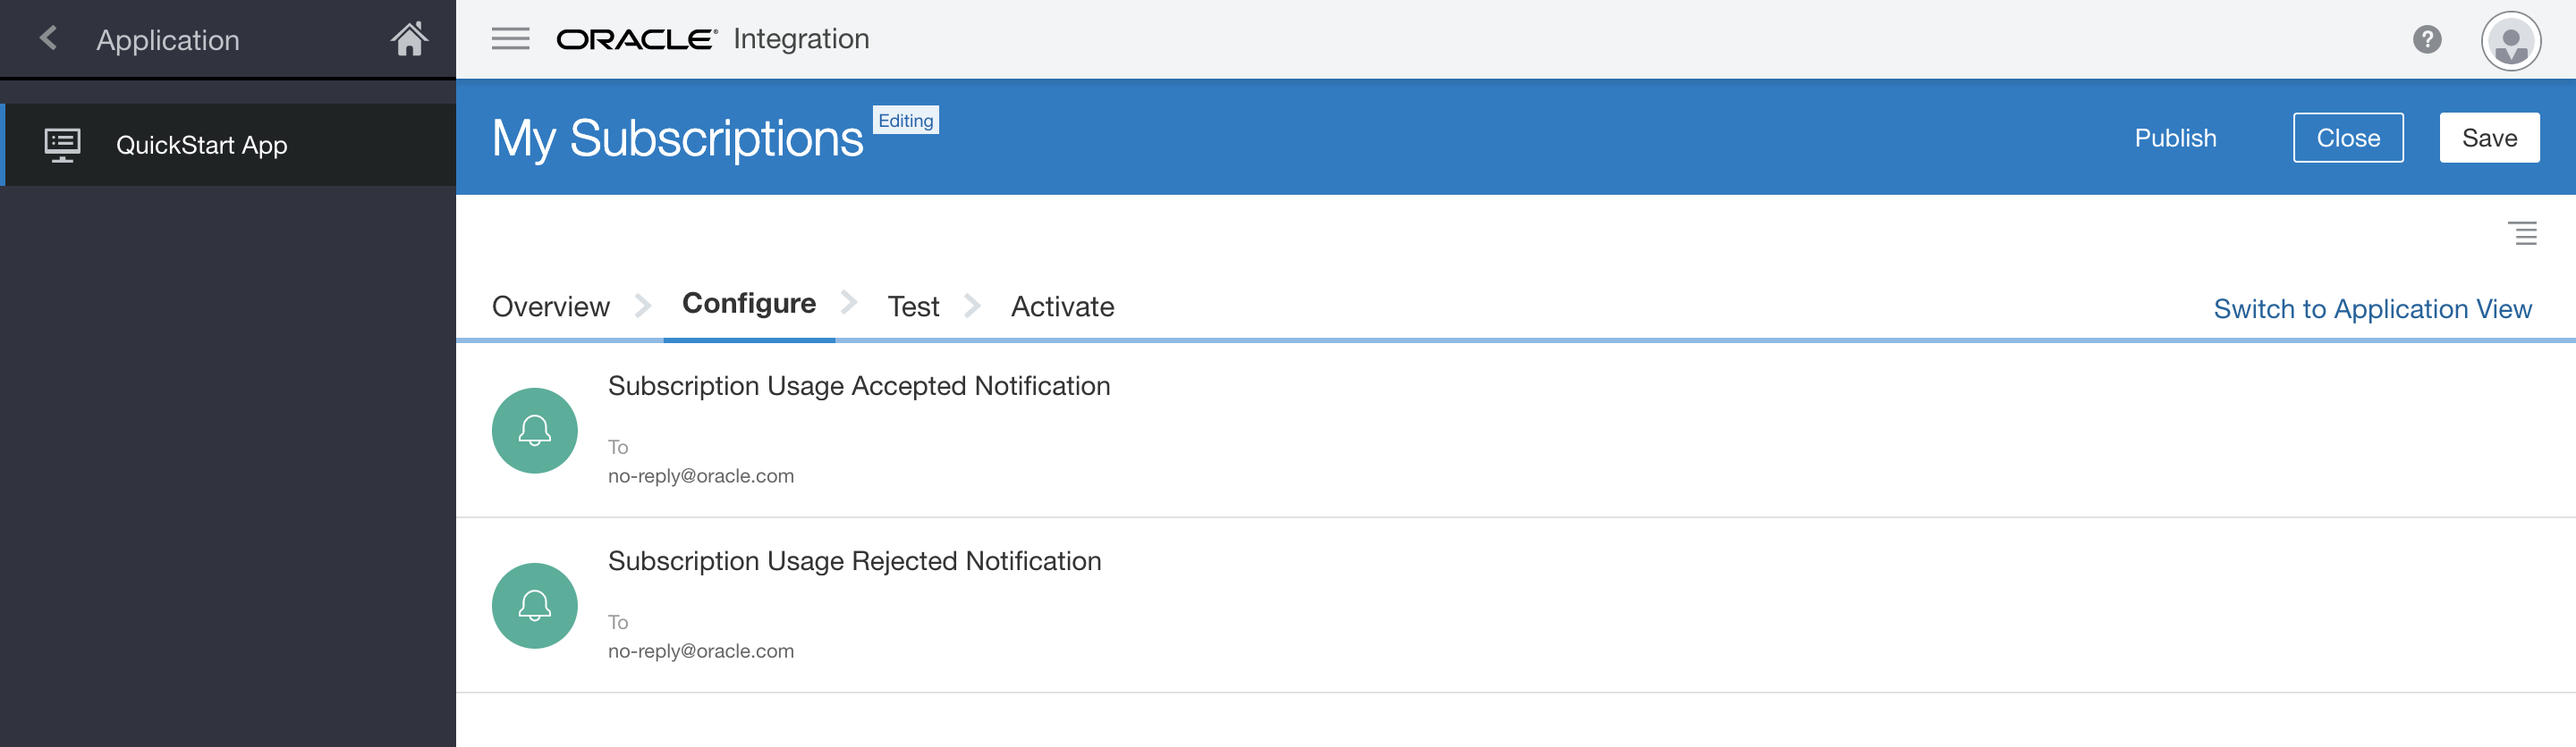
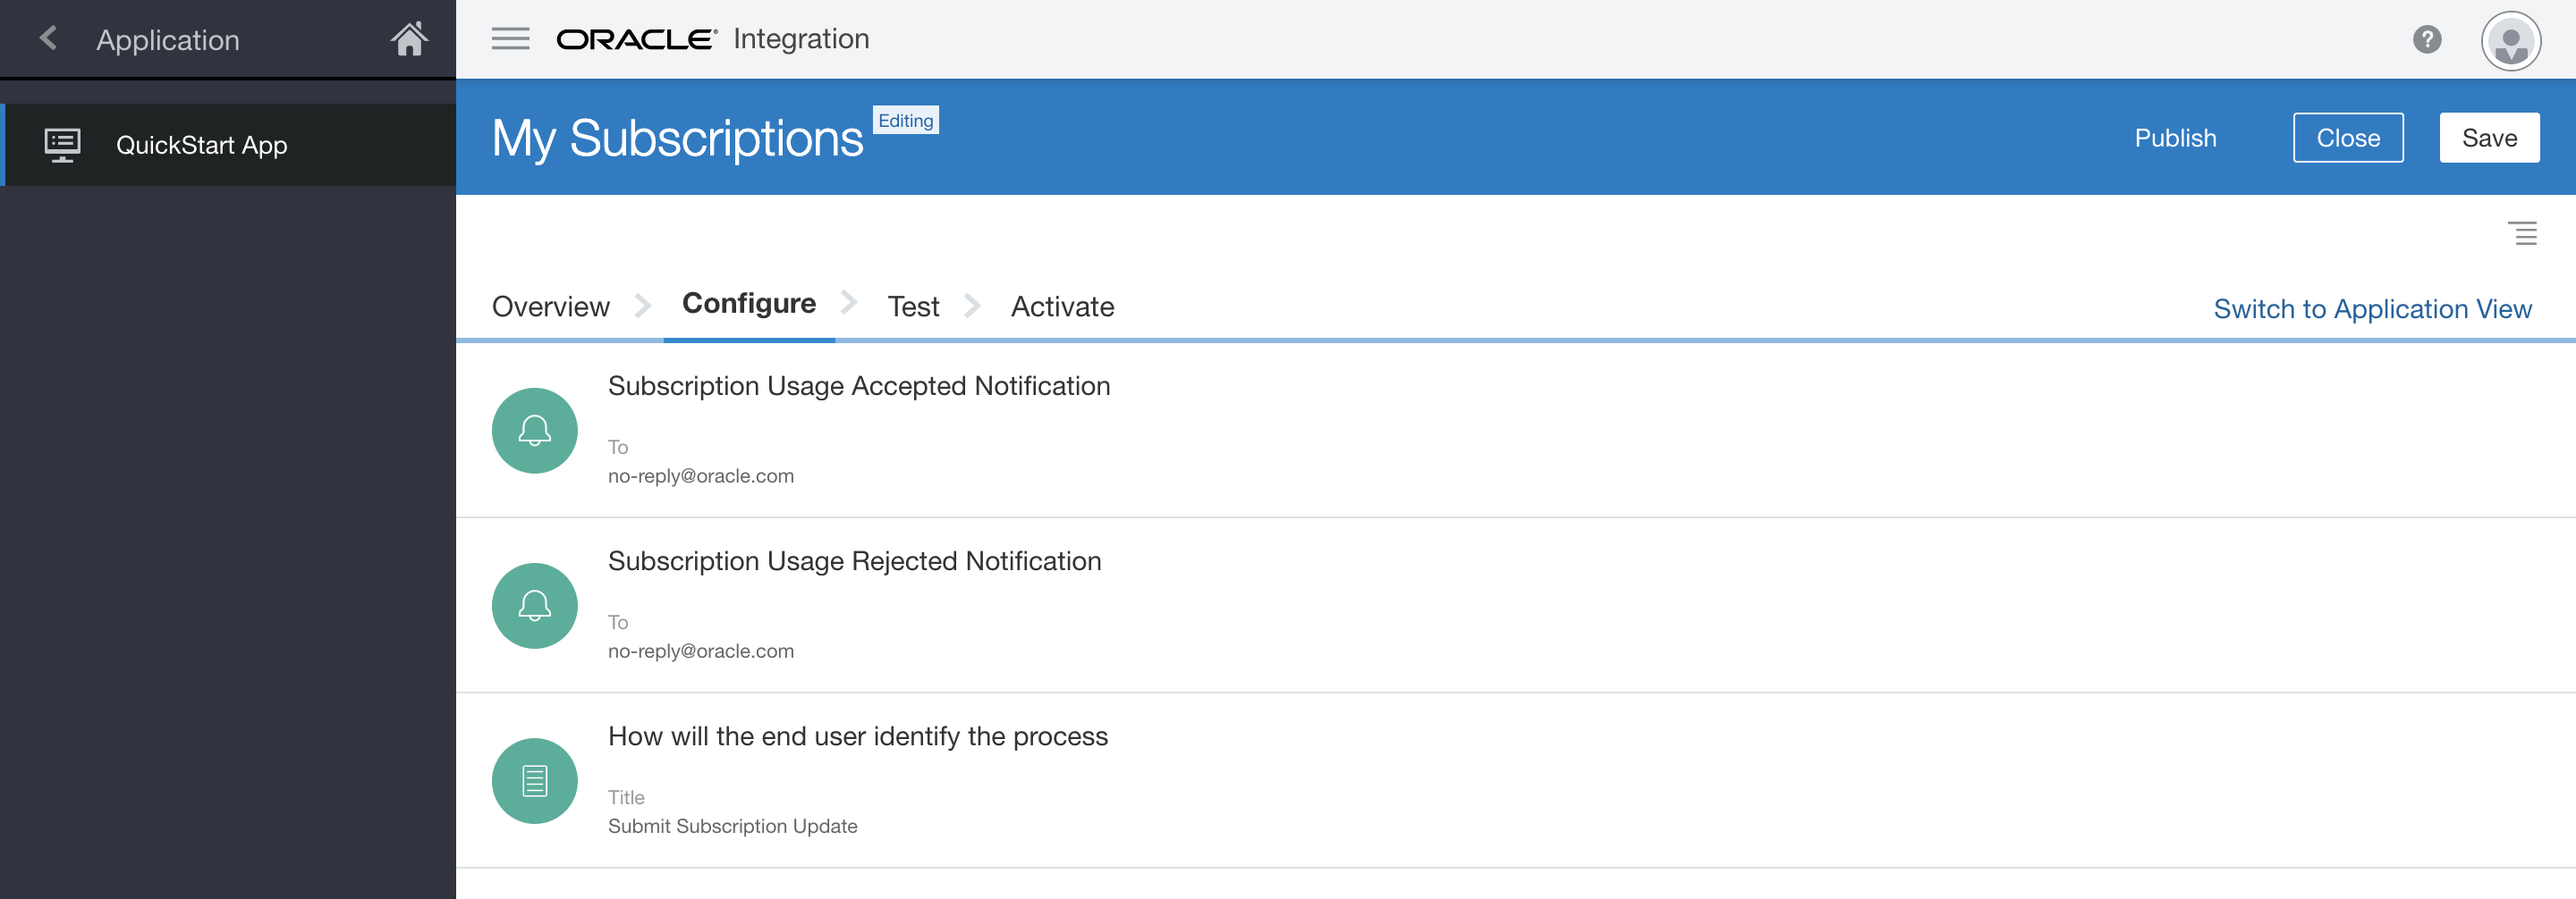
Completed Review the Process App section, Moved the How will the end user identify the process configuration from the Edit the Form section to the QuickStart App configuration section.

Changed region(s): [[0.0, 0.0, 1.0, 0.2799], [0.1875, 0.311, 1.0, 0.933]]

diff --git a/html/process.html b/html/process.html
@@ -50,8 +50,9 @@
                         <section>
                             <h2>Before You Begin</h2>                           
                             <ul>	                            
-                            	<li>Enter the user number provided by your lab facilitator:&nbsp;<input data-bind="value: user_number" type="text" placeholder="User Number"/>&nbsp;<button>OK</button><br>
-                            		We'll use this <strong>user number</strong> to make certain names used throughout the lab unique to you. If you leave this blank, these names will contain a placeholder that you can replace with your <strong>user number</strong>.
+								<li>Enter the user number provided by your lab facilitator:&nbsp;<input data-bind="value: user_number" type="text" placeholder="User Number"/>&nbsp;<button>OK</button><br>
+									<p>Your <strong>user number</strong> is <code class="allow-copy"><span><em data-bind="text:user_number() || 'Undefined'"></em></span></code></p>
+                            		<p>We'll use this <strong>user number</strong> to make certain names used throughout the lab unique to you. If you leave this blank, these names will contain a placeholder that you can replace with your <strong>user number</strong>.</p>.
                             	</li>
                             	<li>Some steps in this tutorial have a <img src="img/copy-to-clipboard.png" alt="Copy to Cliboard" height="19px" width="19px"> icon next to them. Click this icon to copy the snippet of text to your clipboard and then paste where needed.</li>														
                         </section>
@@ -86,7 +87,9 @@
 							<br>							
                             <ol>
 								<li>Open a browser with the <strong>url</strong> provided by your lab facilitator to access your Oracle Integration instance.</li>
-								<li>Enter the <strong>user name prefix</strong> provided by your lab facilitator:&nbsp;<input data-bind="value: user_name_prefix" type="text" placeholder="User Name Prefix"/>&nbsp;<button>OK</button></li>
+								<li>Enter the <strong>user name prefix</strong> provided by your lab facilitator:&nbsp;<input data-bind="value: user_name_prefix" type="text" placeholder="User Name Prefix"/>&nbsp;<button>OK</button>
+									<p>Your <strong>user name prefix</strong> is <code class="allow-copy"><span><em data-bind="text:user_name_prefix() || 'Undefined'"></em></span></code></p>
+								</li>
 								<li><p>Enter your user name.</p>
                                 	<p>Your user name is the <strong>user name prefix</strong> followed by the <strong>user number</strong> provided by your lab facilitator.</p>
 									<p>If you entered your <strong>user number</strong> and <strong>user name prefix</strong> above, your user name is <code class="allow-copy"><span><em data-bind="text:user_name_prefix() || '<User Name Prefix>'"></em><em data-bind="text:user_number() || '<User Number>'"></em></span></code></p>
@@ -104,7 +107,7 @@
                         <hr>                        
 <!-- ########## CREATE PROCESS ########## -->                        
                         <section> 
-                            <h2 id="section_2" role="button" style="text-align: left;">Create a Process</h2>
+                            <h2 id="section_2" role="button" style="text-align: left;">Create a Process App</h2>
                             <p>Oracle Integration Process simplifies the effort and skillsets required to create Process Apps that digitize and automate end-to-end business processes. We will create our Process App from a QuickStart App that provides us a good starting point.</p>
 							<h4>What is a QuickStart App?</h4>
 							<p>A QuickStart App a ready to run Process App with all the implementation details included for you to play, test, and activate the application. QuickStart Apps can be configured within a pre-defined set of constraints defined by the QuickStart App author. The QuickStart App author can optionally allow the QuickStart App to be completely customized beyond the constraints they defined. In short, a QuickStart App is a template to create a fully functioning Process App. This allows users to rapildly create ready to run Process Apps that can be tailored to their specific needs.</p>
@@ -131,8 +134,9 @@
                         <section> 
                             <h2 id="section_3" role="button" style="text-align: left;">Configure the QuickStart</h2>
                             <p>The Subscription Management Process App you just created comes ready to run but lacks some core functionality required by the business scenario. You will make the necessary modifications to complete this Process App.</p>
-							<p>We'll start by examining how a QuickStart App author can define specific configuration options that can be tailored with little understanding of the underlying Process App assets. In our case, the QuickStart App contains two email notification activities that will send an email to the subscriber when their usage data has either been accepted or rejected. The Process App is configured to use a temporary email address however the QuickStart App author has exposed the send <strong>To</strong> field for these emails as a configuration option.</p>
-							<p>You will update the send <strong>To</strong> field for both of these email notification activities with your email address. Of course in a real solution we would use the email address associated with the logged in user however, since you are using a training account we will specify this through the QuickStart App configuration.</p>
+							<p>We'll start by examining how a QuickStart App author can define specific configuration options that can be tailored with little understanding of the underlying Process App assets.</p>
+							<p>First, our QuickStart App contains two email notification activities that will send an email to the subscriber when their usage data has either been accepted or rejected. The Process App is configured to use a temporary email address however the QuickStart App author has exposed the send <strong>To</strong> field for these emails as a configuration option. You will update the send <strong>To</strong> field for both of these email notification activities with your email address. Of course in a real solution we would use the email address associated with the logged in user however, since you are using a training account we will specify this through the QuickStart App configuration.</p>
+							<p>Second, when it's time to run you Process App, you will need to be able to identify your application from your classmates. We will use the QuickStart App configuration to uniquely identify your Process App.</p>
                             <ol>
 								<li><p>From the QuickStart <strong>Overview</strong> page, click <strong>Configure</strong>.</p>
 									<p>The QuickStart Configure page appears.</p><br>
@@ -147,6 +151,17 @@
 									<p>The QuickStart Configure page appears.</p>
 								</li>
 								<li>Make the same change to the <strong>Subscription Usage Rejected Notification</strong> configuration option.</li>
+								<li><p>Click <strong>How will the end user identify the process</strong> configuration option to open the configuration editor.</p>
+									<p>The configuration editor appears.</p><br>
+									<img src="img/screenshots/process/quickstart-configure-startForm-editor.png" width="600px"/>
+								</li>
+
+								<li><p>Replace the <strong>Title</strong> text with <code class="allow-copy"><span>User <em data-bind="text:user_number() || '<User Number>'"></em> Submit Subscription Update</span></code>.</p>
+									<p>Remember this name for later, when you run the Process App.</p>
+								</li>
+								<li><p>Click <img src="img/close.png" alt="Close icon" style="height: 15px; width: 15px;"/> to close the configuration editor.</p>
+									<p>The QuickStart Configure page appears.</p>
+								</li>
 								<li><p>Click <strong>Publish</strong> to publish your changes. Enter a comment in the <strong>Publish Application</strong> dialog to note your changes and click <strong>Publish.</strong></p><br>
 									<img src="img/screenshots/process/quickstart-publish.png" width="600px"/>
 								</li>
@@ -156,9 +171,22 @@
                         <hr>
 <!-- ########## REVIEW THE PROCESS APP ########## -->                        
                         <section> 
-                            <h2 id="section_4" role="button" style="text-align: left;">Review the Process Application</h2>
-                            <p>You’ll start with a pre-built Process Application and make changes to it.</p>
-                            <p>A QuickStart Application a ready to run application with all the implementation details included for you to play, test, and activate the application. QuickStart Applications can be configured within a pre-defined set of constraints defined by the QuickStart Application author. The QuickStart Application author can optionally allow the QuickStart Application to be completely customized beyond the constraints they defined. This allows users to rapildly create ready to run applications that can be tailored to their specific needs.</p>
+                            <h2 id="section_4" role="button" style="text-align: left;">Review the Process App</h2>
+							<p>The <strong>QuickStart App View</strong> provides a simplified interface to quickly configure and deploy a Process App. But the changes you can make are limited to what the QuickStart App author defined. Switching to the <strong>Application View</strong> exposes all of the underlying Process App assets and gives you full access to completely customize the application.</p>
+							<p>Once in <strong>Application View</strong>, the left side navigation pane displays the various asset types that make up a Process App. By default, the Process asset type is selected and this Process App contains a single Process. We will open this Process and review it's structure.</p>
+							<ol>
+	                            <li><p>On the <strong>QuickStart App</strong> page, click the <strong>Switch to Application View</strong> link.</p><br>
+									<p><img src="img/screenshots/process/switch-app-view.png" width="600px"/></p><br>
+									<p>The Process Composer page appears.</p><br>
+									<p><img src="img/screenshots/process/process-composer.png" width="600px"/></p>
+								</li>
+								<li><p>With the <strong>Processes</strong> navigation item selected, click the <strong>Process</strong> asset to open it in the structured process editor.</p>
+									<p>The Process Canvas page appears.</p>
+									<p>Review the structure and flow of this process, starting with the <strong>Submit Subscription Update</strong> <strong>Form Start</strong> activity, the <strong>Approve Subscription Update</strong> <strong>Approve</strong> activity, the <strong>Approved?</strong> <strong>Gateway</strong> activity, the <strong>Update Subscription</strong> <strong>Submit</strong> activity, the <strong>Notify</strong> activities, and finally the <strong>Completed</strong> <strong>End Event</strong> activity. Explore the types of activites availble from the BPMN pallette.</p><br>
+									<p><b><em>Be Careful not to make any changes just yet!</em></b></p><br>
+									<p><img src="img/screenshots/process/process.png" width="600px"/></p>
+								</li>
+							</ol>
                         </section>
                         <hr>
 <!-- ########## EDIT FORM ########## -->                        
@@ -167,20 +195,7 @@
                             <p>The Process Application The form that will be used by subscribers to submit their usage </p>
                             <p>You’ll add two controls to the form that each call the source system and return values for customers to choose from.</p>
                             <ol>
-	                            <li><p>On the <strong>QuickStart App</strong> page, click the <strong>Switch to Application View</strong> link.</p>
-									<p><img src="img/screenshots/process/switch-app-view.png" width="600px"/></p>
-								</li>
-								<li>On the <strong>Processes</strong> page, click the process to open it in the structured process editor.</li>
 								<li>Click the purple Start activity titled <strong>Submit Subscription Update</strong>.</li>
-								<li><p>Click <img src="img/menu.png" alt="Menu icon" style="height: 15px; width: 15px;"/> and select <strong>Open Properties</strong>.</p>
-									<img src="img/screenshots/process/process-canvas.png" width="600px"/>
-								</li>
-								<li><p>In the <strong>How will the end user identify the process?</strong> section, in the <strong>Title</strong> field, enter <code class="allow-copy"><span>User <em data-bind="text:user_number() || '<User Number>'"></em> Submit Subscription Update</span></code>.</p>
-									<p>Remember this name for later, when you run the process application.</p>
-								</li>
-								<li><p>Close the <strong>Properties</strong> pane and select the same activity again.</p>
-									<img src="img/screenshots/process/close-properties.png" width="600px"/>
-								</li>
 								<li><p>Click <img src="img/menu.png" alt="Menu icon" style="height: 15px; width: 15px;"/> and select <strong>Open Form</strong>.</p>
 									<p>The form editor appears. It contains a central canvas, a side pane for setting properties for selected controls, and a side palette pane with basic and advanced controls you can add to the form.</p>
 								</li>
